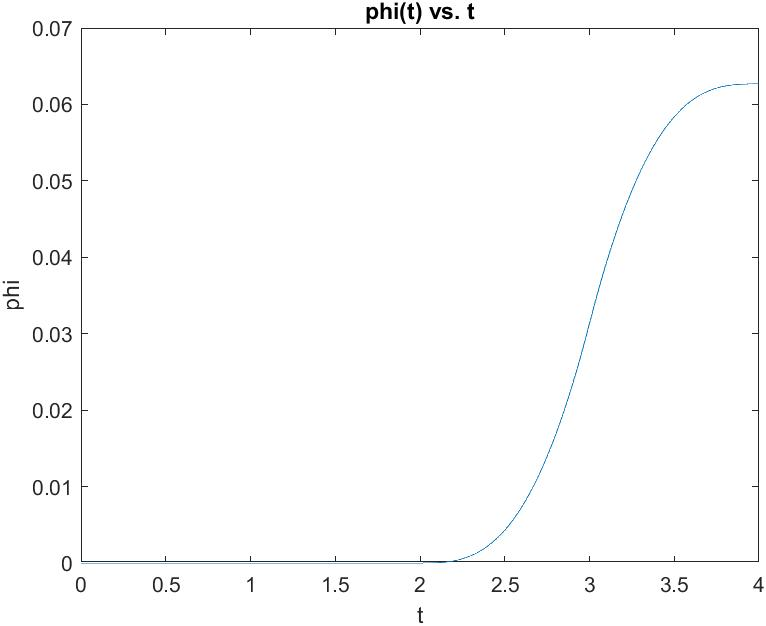
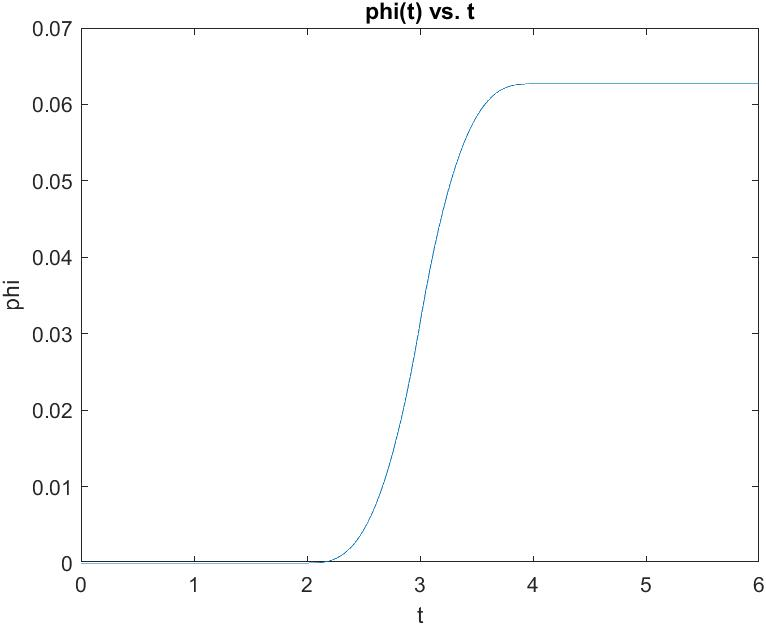
more or less finished q1

diff --git a/AERSP304_Proj2.m b/AERSP304_Proj2.m
@@ -20,7 +20,7 @@ I = [ 4.85*10^-3 , 0, 0 ;
 options = odeset('reltol',1e-12,'abstol',1e-12);
 
 % Question 1 Part A
-t = linspace(0,4,1000) ;
+t = linspace(0,6,1200) ;
 [t,d] = ode45(@(t,d) Q1fun(t,d,I), t , [0,0,0,0,0,0,0,0,0,0,0,0] , options);
 
 figure
@@ -32,13 +32,43 @@ ax = gca ;
 exportgraphics(ax,'phi.jpg')
 
 figure
+plot(t,d(:,9))
+title('theta(t) vs. t');
+xlabel('t');
+ylabel('theta');
+ax = gca ;
+exportgraphics(ax,'theta.jpg')
+
+figure
+plot(t,d(:,11))
+title('psi(t) vs. t');
+xlabel('t');
+ylabel('psi');
+ax = gca ;
+exportgraphics(ax,'psi.jpg')
+
+figure
+plot(t,d(:,1))
+title('x(t) vs. t');
+xlabel('t');
+ylabel('x');
+ax = gca ;
+exportgraphics(ax,'x.jpg')
+figure
+plot(t,d(:,2))
+title('Vx(t) vs. t');
+xlabel('t');
+ylabel('Vx');
+ax = gca ;
+exportgraphics(ax,'vx.jpg')
+
+figure
 plot(t,d(:,3))
 title('y(t) vs. t');
 xlabel('t');
 ylabel('y');
 ax = gca ;
 exportgraphics(ax,'y.jpg')
-
 figure
 plot(t,d(:,4))
 title('Vy(t) vs. t');
@@ -54,7 +84,6 @@ xlabel('t');
 ylabel('z');
 ax = gca ;
 exportgraphics(ax,'z.jpg')
-
 figure
 plot(t,d(:,6))
 title('Vz(t) vs. t');
@@ -72,6 +101,7 @@ function    rDot = Q1fun(t,d,I)
     m = getM ;
     k = getK ;
     l = getL ;
+    b = getB ;
     
     % calculating hover omega
     OmegaH = sqrt((m*g)/(4*k)) ;
@@ -106,6 +136,7 @@ function    rDot = Q1fun(t,d,I)
     
     % part A function
     z1dot = z2;
+   
     if t < 1 
         T1 = k*(OmegaH + 70 * sin(0.5 * pi * t))^2 ;
         T2 = k*(OmegaH + 70 * sin(0.5 * pi * t))^2 ;
@@ -124,27 +155,59 @@ function    rDot = Q1fun(t,d,I)
     T1 = k*OmegaH^2 ;
     T3 = k*OmegaH^2 ;
 
+    phi1dot = phi2 ;
+    y1dot = y2 ;
+    z1dot = z2 ;
+
     if t > 2 && t < 3
         T2 = k*(OmegaH^2 - 70^2 * sin(0.5*pi*(t-2))) ;
         T4 = k*(OmegaH^2 + 70^2 * sin(0.5*pi*(t-2))) ;
         L = l*(-T2+T4) ;
-        phi1dot = phi2 ;
         phi2dot = L/I(1,1) ;
-        z1dot = z2 ;
+        y2dot = ((T1+T2+T3+T4)/m) * -sin(phi1) ;
         z2dot = ((T1+T2+T3+T4)/m) * cos(phi1) - g ;
-        y1dot = y2 ;
-        y2dot = ((T1+T2+T3+T4)/m) * sin(phi1) ;
     elseif t >=3 && t < 4
         T2 = k*(OmegaH^2 + 70^2 * sin(0.5*pi*(t-2))) ;
         T4 = k*(OmegaH^2 - 70^2 * sin(0.5*pi*(t-2))) ;
         L = l*(-T2+T4) ;
-        phi1dot = phi2 ;
         phi2dot = L/I(1,1) ;
-        z1dot = z2 ;
+        y2dot = ((T1+T2+T3+T4)/m) * -sin(phi1) ;
         z2dot = ((T1+T2+T3+T4)/m) * cos(phi1) - g ;
-        y1dot = y2 ;
-        y2dot = ((T1+T2+T3+T4)/m) * sin(phi1) ;
     end
+
+    % part C function
+    T2 = k*OmegaH^2 ;
+    T4 = k*OmegaH^2 ;
+
+    phi1dot = phi2 ;
+    theta1dot = theta2 ;
+    psi1dot = psi2 ;
+    x1dot = x2 ;
+    y1dot = y2 ;
+    z1dot = z2 ;
+
+    if t >= 4 && t < 5
+        T1 = k*(OmegaH^2 - 70^2 * sin(0.5*pi*(t-4))) ;
+        T3 = k*(OmegaH^2 + 70^2 * sin(0.5*pi*(t-4))) ;
+        M = l*(-T1+T3) ;
+        N = (b/k)*(T1-T2+T3-T4);
+        theta2dot = M/I(2,2) ;
+        psi2dot = N/I(3,3) ;
+        x2dot = ((T1+T2+T3+T4)/m) * (cos(psi1)*sin(theta1)*cos(phi1)+sin(psi1)*psi(phi1));
+        y2dot = ((T1+T2+T3+T4)/m) * (sin(phi1)*sin(theta1)*cos(phi1)-cos(psi1)*sin(phi1)) ;
+        z2dot = ((T1+T2+T3+T4)/m) * (cos(phi1)*cos(theta1)) - g ;
+    elseif t >=5 && t <= 6
+        T1 = k*(OmegaH^2 + 70^2 * sin(0.5*pi*(t-4))) ;
+        T3 = k*(OmegaH^2 - 70^2 * sin(0.5*pi*(t-4))) ;
+        M = l*(-T1+T3) ;
+        N = (b/k)*(T1-T2+T3-T4);
+        theta2dot = M/I(2,2) ;
+        psi2dot = N/I(3,3) ;
+        x2dot = ((T1+T2+T3+T4)/m) * (cos(psi1)*sin(theta1)*cos(phi1)+sin(psi1)*psi(phi1));
+        y2dot = ((T1+T2+T3+T4)/m) * (sin(phi1)*sin(theta1)*cos(phi1)-cos(psi1)*sin(phi1)) ;
+        z2dot = ((T1+T2+T3+T4)/m) * (cos(phi1)*cos(theta1)) - g ;
+    end
+
 
     % return
     rDot = [x1dot; x2dot; y1dot; y2dot; z1dot; z2dot; phi1dot; phi2dot; theta1dot; theta2dot; psi1dot; psi2dot];
